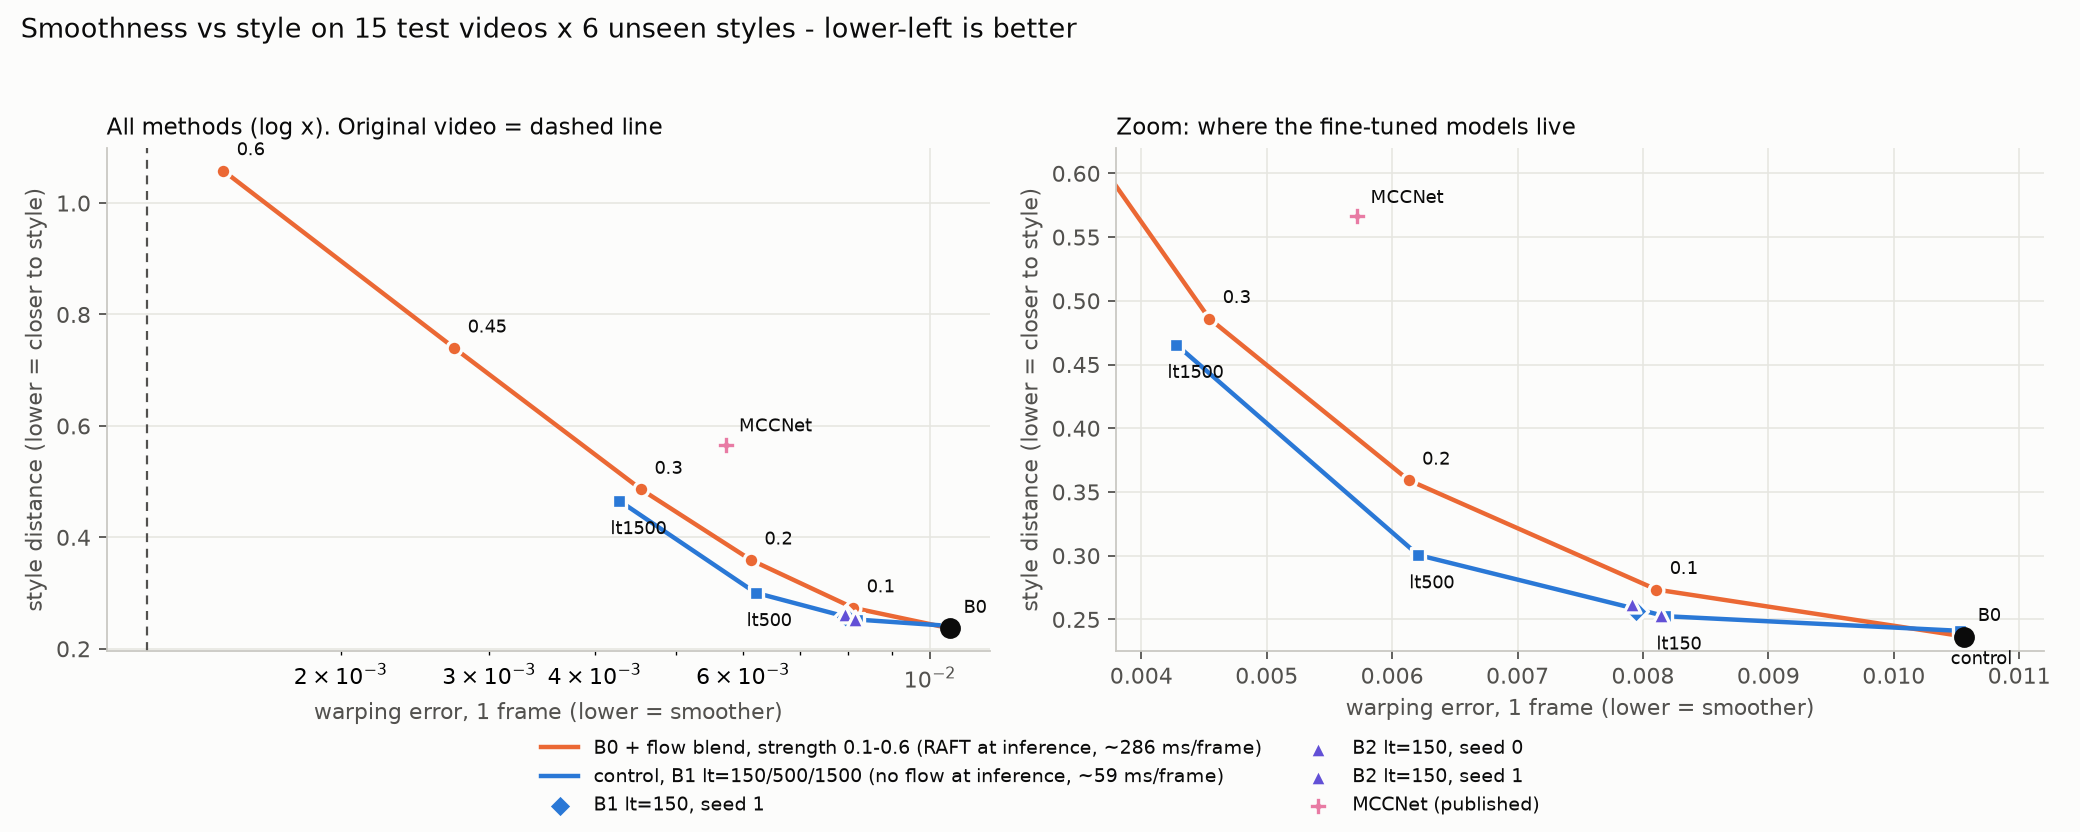
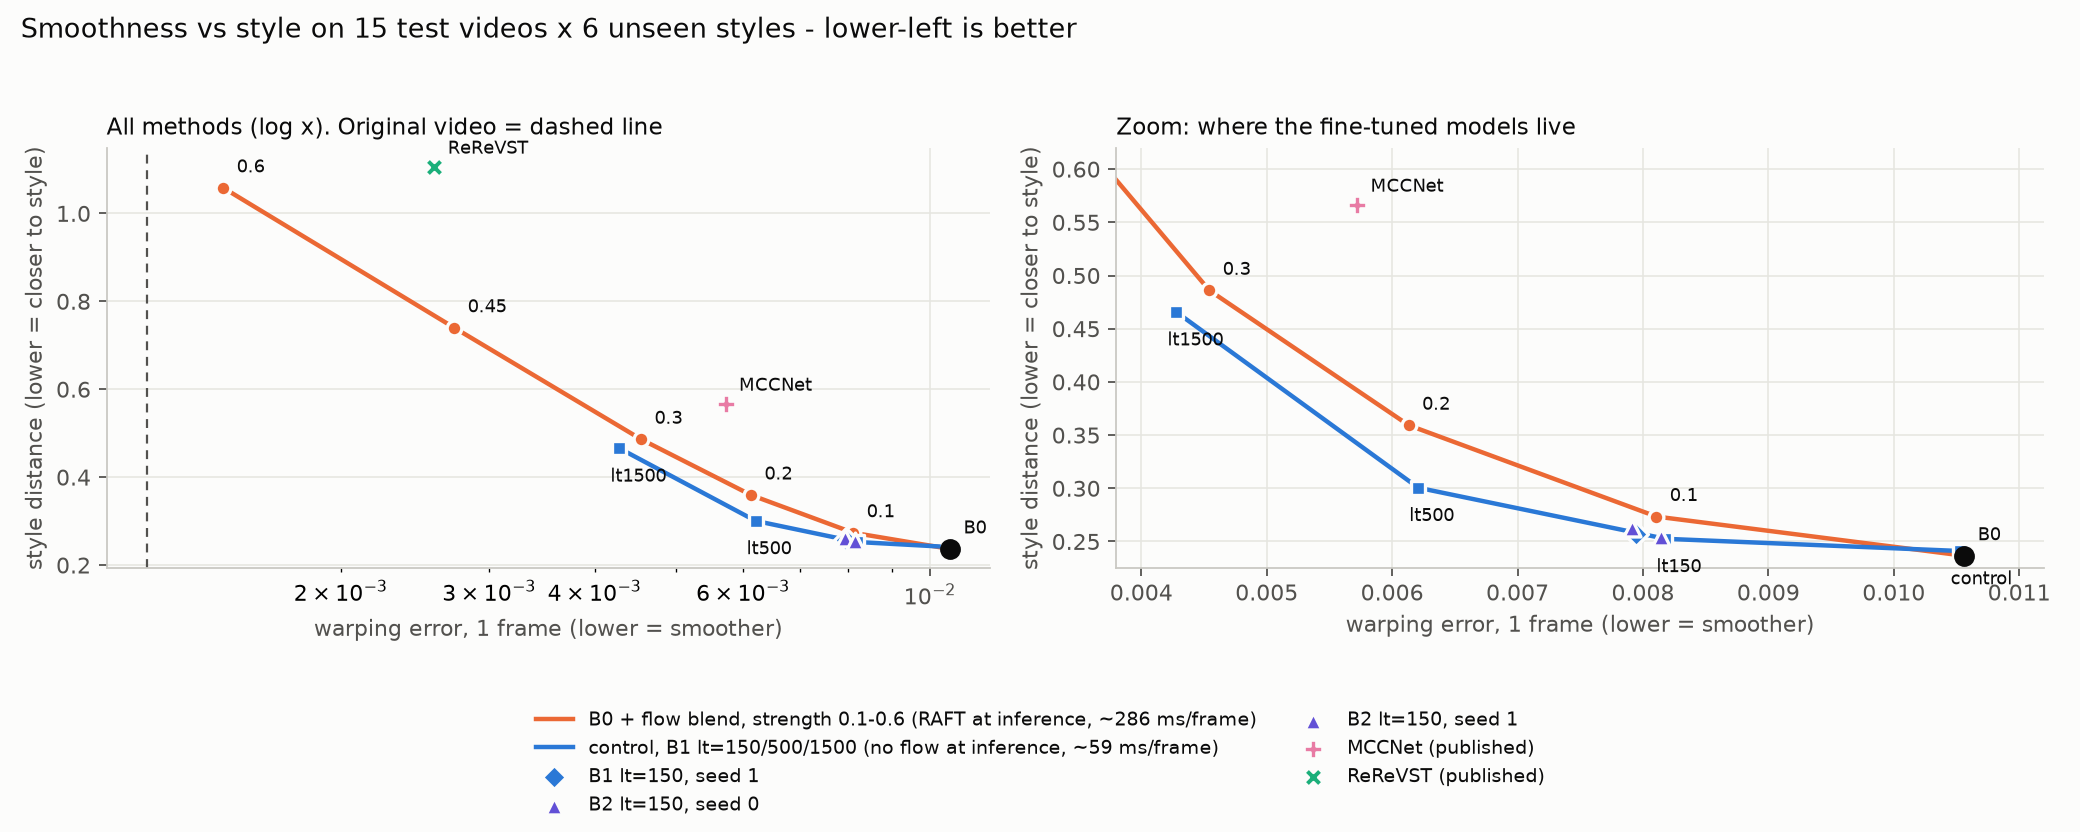
Add published-model (ReReVST, MCCNet) and old per-style model results, timing, docs
- RESULTS.md sections 6-8: published models in our pipeline with paired comparisons, the earlier project's
  per-style checkpoints, idle-GPU timing. Negative/unfavourable results (ReReVST smoother; old Cuphead model steadier) stated.
- LITERATURE.md update (ReReVST supplement read, MCCNet released script cannot run), PROTOCOL.md addendum.
- Report script now includes published models and old-model table; chart legend fixed.

diff --git a/src/make_report.py b/src/make_report.py
@@ -78,9 +78,9 @@ ax1.axvline(ref["warp_mse_k1"], color=MUT, lw=1, ls=(0, (4, 3)))
 draw(ax2, True); ax2.set_xlim(0.0038, 0.0112); ax2.set_ylim(0.225, 0.62); ax2.set_title("Zoom: where the fine-tuned models live", color=INK, fontsize=10.5, loc="left")
 h, l = ax1.get_legend_handles_labels(); seen = {}
 for hh, ll in zip(h, l): seen.setdefault(ll, hh)
-fig.legend(seen.values(), seen.keys(), loc="lower center", ncol=2, frameon=False, fontsize=8.5, labelcolor=INK)
+fig.legend(seen.values(), seen.keys(), loc="lower center", ncol=2, bbox_to_anchor=(0.5, 0.0), frameon=False, fontsize=8.5, labelcolor=INK)
 fig.suptitle("Smoothness vs style on 15 test videos x 6 unseen styles - lower-left is better", color=INK, fontsize=12, x=0.01, ha="left")
-fig.tight_layout(rect=(0, 0.1, 1, 0.95)); fig.savefig(R / "tradeoff_test.png", dpi=160, facecolor=BG); print("saved chart")
+fig.tight_layout(rect=(0, 0.2, 1, 0.95)); fig.savefig(R / "tradeoff_test.png", dpi=160, facecolor=BG); print("saved chart")
 
 
 # ---- old project's per-style models (own style) + our methods on the SAME three styles

diff --git a/RESULTS.md b/RESULTS.md
@@ -33,8 +33,60 @@ Flow cost as implemented = 227 ms/frame (2 RAFT-Large passes + mask), so flow bl
 5. **B2 (our attention module) shows no benefit over B1**: 3% better with seed 0, 2.5% worse with seed 1 on both val and test; its gate stays ~0.007.
 
 ## What it does NOT show
-* Not compared with ReReVST/MCCNet/CCPL in our pipeline (no published-method baseline yet). Published numbers use other protocols and are not comparable (see LITERATURE.md).
+* Compared with ReReVST and MCCNet in our pipeline (section 6) but NOT with CCPL / AdaAttN / others. Numbers quoted in those papers use other protocols and are not comparable (see LITERATURE.md).
 * Style/content metrics are proxies tied to AdaIN's own VGG; the warp error can be lowered by blur/ghosting (blend 0.6 shows this). No human ratings collected yet (HUMAN_STUDY.md).
 * One base model, one training recipe, 2 seeds for lt=150 only, 6 styles per evaluation, DAVIS only.
 * Fine-tuning DAVIS-only decoder slightly worsens style vs B0 (control +1.9% style distance, CI above 0).
 * Round-1 selection rule was changed after seeing validation results (PROTOCOL.md, Amendment 1); the extra seed runs and extra blend strengths were also added after seeing results. All are logged.
+
+---
+# 6. Published models run through OUR pipeline (same 15 test videos x 6 unseen styles, same flow/masks/metrics)
+Models: ReReVST (Wang et al., TIP 2020; official code + final weights, inference mirrors the authors' own script incl. global feature sharing) and
+MCCNet (Deng et al., AAAI 2021; official decoder/module weights; VGG file byte-identical to ours; the authors' `test_video.py` cannot run as released, so we
+reimplemented its inference core: relu4_1 -> MCC module -> decoder, frame by frame). Default settings, no tuning. Style image given at 256x256 like for all methods.
+
+| method | warp err 1fr [95% CI] | warp err 5fr | content LPIPS | style dist | ms/frame | peak GPU |
+|---|---|---|---|---|---|---|
+| B1 lt=500 (ours) | 0.00621 [0.00497, 0.00762] | 0.01169 | 0.5473 | 0.3006 | 59 | <1 GB |
+| B1 lt=1500 (ours) | 0.00428 [0.00332, 0.00545] | 0.00875 | 0.5422 | 0.4656 | 59 | <1 GB |
+| B0 + flow blend 0.45 | 0.00273 [0.00223, 0.00329] | 0.01053 | 0.5506 | 0.7397 | 286 | - |
+| MCCNet (published) | 0.00572 [0.00443, 0.00716] | 0.01094 | 0.5327 | 0.5663 | 61 | 0.5 GB |
+| ReReVST (published) | 0.00258 [0.00186, 0.00352] | 0.00672 | 0.5289 | 1.1056 | 171 | 5.5 GB |
+
+Paired over the 15 test videos (bootstrap 95% CI of the relative difference):
+* **B1 lt=1500 vs MCCNet:** warp 1fr -25% [-33, -18] (lower on 13/15 videos), 5fr -20%, style distance -18% [-23, -13] (14/15), content LPIPS +1.8% [-0.2, +3.8] (not distinguishable). By these metrics B1 lt=1500 is both smoother and closer to the style than MCCNet.
+* **B1 lt=500 vs MCCNet:** warp +8.5% (MCCNet smoother on 13/15), style distance -47% (B1 closer on 15/15).
+* **ReReVST vs MCCNet:** warp -55% (smoother on 15/15), style distance +95% (worse on 15/15).
+* **ReReVST vs flow blend 0.45:** about equal 1-frame warp (-5% [-18, +13]), but much smoother over 5 frames (-36% [-41, -32], 15/15), better content LPIPS (-4%), and a higher style distance (+50%).
+
+What this means, honestly:
+1. **ReReVST is the smoothest learned method we tested, especially over longer gaps (5 frames: 0.0067 vs our best 0.0088).** Our B1 does NOT beat it on smoothness.
+2. **ReReVST pays for it in style distance (1.11 vs 0.24-0.47 for ours).** Caution: our style metric uses AdaIN's own VGG mean/std statistics, and ReReVST deliberately uses a *relaxed* style loss (its supplement), so this metric is expected to disfavour it. We cannot say from the metric alone which looks better; that needs the human study.
+3. **Our B1 family sits better than MCCNet in the smoothness/style trade-off** (see `results/tradeoff_test.png`); MCCNet is about as fast as ours (61 vs 59 ms/frame), ReReVST is ~3x slower (171 ms) and needs 5.5 GB.
+4. Not claimed: that B1 is better than ReReVST. Not tested: CCPL, AdaAttN, other published models.
+
+# 7. The earlier project's per-style TransformerNet models (your friends' checkpoints), our metrics, our test videos
+Normalisation handled as in the old `run_temporal.py` (ImageNet-normalised in/out); frames reflect-padded to a multiple of 4. The old fine-tuning used the same 60 DAVIS training videos; our 15 test videos come from the old validation set, so they were never seen. Each model is evaluated only on its own style image; style distances are only comparable within one style, and the per-style models were trained with a different (VGG16 Gram) objective than the AdaIN-VGG distance used here, so their style distances are not a fair comparison. Full table: `results/table_old_models.md`.
+
+| style | method | warp err 1fr | warp err 5fr | content LPIPS | style dist |
+|---|---|---|---|---|---|
+| cuphead | old original (10000 it) | 0.01045 | 0.02112 | 0.6006 | 2.069 |
+| cuphead | old "temporal_best" | 0.00940 | 0.01909 | 0.5921 | 2.749 |
+| cuphead | old temporal_m2 / m3 / m2_e5 | 0.0166 / 0.0166 / 0.0164 | 0.0276 / 0.0276 / 0.0278 | 0.639 / 0.639 / 0.646 | 1.16 / 1.16 / 1.66 |
+| cuphead | old m2 + flow blend 0.35 (our mask) | 0.00619 | 0.01853 | 0.6207 | 1.521 |
+| cuphead | our B0 / B1 lt150 / B1 lt500 | 0.0293 / 0.0228 / 0.0175 | 0.0450 / 0.0375 / 0.0308 | 0.611 / 0.608 / 0.608 | 0.73 / 0.77 / 0.85 |
+| mosaic | old original | 0.02371 | 0.03593 | 0.6385 | 1.020 |
+| mosaic | our B0 / B1 lt150 / B1 lt500 | 0.0313 / 0.0259 / 0.0194 | 0.0435 / 0.0381 / 0.0303 | 0.622 / 0.623 / 0.631 | 0.65 / 0.75 / 1.07 |
+| starry night | old original | 0.03696 | 0.04523 | 1.0250 | 3.564 |
+| starry night | our B0 / B1 lt150 / B1 lt500 | 0.0198 / 0.0160 / 0.0126 | 0.0285 / 0.0243 / 0.0201 | 0.672 / 0.649 / 0.664 | 0.54 / 0.66 / 0.72 |
+(Original video floor: 0.00118 / 0.00361.)
+
+What this shows:
+* **Only one of the old project's "temporal" fine-tunes made the model steadier.** `temporal_best`: warp error -10% vs the old original on Cuphead (paired 95% CI -12.8..-7.7%, lower on 15/15 videos), content LPIPS -1.4%. `m2`, `m2_e5`, `m3` are clearly WORSE: warp error +57..+59% (CI +47..+70%, worse on 15/15), content LPIPS +6..+7.5%, and they visibly changed the look (heavier crackle texture). `m2` and `m3` are different files but practically the same model (per-video warp error differs by <= 1.3e-5).
+  Likely reason (from their training logs, not tested): the content/style losses were ~10^6 while the temporal term was ~0.06, i.e. the temporal term was numerically negligible, so those runs mostly drifted the style.
+* **Per-style models are not uniformly steadier or flickerier than AdaIN:** Cuphead: the old model is much steadier than our AdaIN-based methods (0.010 vs 0.029 / 0.0175 at lt=500); Mosaic: our B1 lt=500 (0.0194) is steadier than the old model (0.0237), B0 is not (0.0313); Starry Night: our methods are steadier (0.013-0.020 vs 0.037).
+* What per-style models cannot do: they need one trained network per style; ours takes any style image. The numbers do not measure that.
+* Caveat for the starry-night LPIPS (1.02): the model changes the image strongly (checked visually: correct, strong Van-Gogh look; `results/old_models_preview_camel.jpg`); LPIPS to the content frame is not comparable across styles.
+
+# 8. Speed (RTX 4060 laptop GPU, 480p, median of 5 repeats after warm-up, frames start on CPU)
+Old per-style TransformerNet 27 ms/frame; ours (AdaIN decoder, B0/control/B1) 59; B2 64; MCCNet 61; ReReVST 171 (peak 5.5 GB); flow blending 286 (flow+mask = 227 ms). Scripts: `src/time_methods.py`, `src/time_external.py`.

diff --git a/LITERATURE.md b/LITERATURE.md
@@ -54,3 +54,10 @@ Pretrained model and code: https://github.com/daooshee/ReReVST-Code (GPL-3.0); w
 
 ## 4. Architectural idea we tried
 LocalAttnFusion (flow-free 7x7 local cross-frame attention + gate, 0.23M params): validation and test showed **no reproducible gain** over B1 (seed-to-seed sign flip, gate shrank to ~0.007). Reported as a negative/neutral result. Prior art already covers attention for style (AdaAttN) and flow-free video consistency (MCCNet, CCPL, ReReVST), so novelty claims should be modest.
+
+---
+## 5. Update after running published models in our pipeline (2026-11-17)
+* **ReReVST**: its paper is still not readable (IEEE), but the authors' *supplementary PDF* (from their Drive folder) confirms: trained on MS-COCO content + WikiArt styles with VGG-19 encoders; loss weights content 1, style 20, colour reconstruction 20, TV 10, temporal 60; Adam 1e-4, batch 4; relaxed style loss introduced in the second stage and temporal regularisation in the last epoch; benchmarking used 20 style images and the other methods' released code with default parameters; "temporal stability improves steadily with the increase of regularization strength" while content reconstruction degrades (the same trade-off we measure for B1). Metric definitions and the main tables remain unverified by me.
+* **Run through OUR protocol** (15 DAVIS test videos x 6 unseen styles): ReReVST warp error 0.00258 (5-frame 0.00672), content LPIPS 0.529, style distance 1.106, 171 ms/frame; MCCNet 0.00572 (0.01094), 0.533, 0.566, 61 ms/frame. See RESULTS.md section 6 for paired comparisons and caveats. ReReVST is smoother than anything we trained, with a much higher style distance on a metric that is tied to AdaIN's statistics.
+* **MCCNet's released `test_video.py` does not run** (calls `torch.uint8(...)` and `cv2.cvColor`, and its frame-processing branch `if j % 1 == False` never executes); we reimplemented its inference core. Its decoder/module weights are in the repo; its VGG file is byte-identical to the AdaIN VGG we use (sha256 checked).
+* Still unread: CCPL's supplementary material, AdaAttN, Ruder/Huang/Chen/Lai/ReCoNet experiment sections.

diff --git a/PROTOCOL.md b/PROTOCOL.md
@@ -93,3 +93,9 @@ The B2-B1 difference flips sign between seeds (-2.8% / +2.8%) -> it is seed nois
 Conclusion fixed before the test run: B2 (LocalAttnFusion) is NOT shown to improve on B1; its gate stays ~0.007-0.008. Report it as a negative/neutral result.
 
 ## FINAL test evaluation (run once): B0, B0+blend0.3/0.6, control, B1 lt150 (seeds 0,1), B1 lt500, B1 lt1500, B2 lt150 (seeds 0,1), with --timing. Script: run_test.sh.
+
+---
+## Addendum (2026-11-17, after the main test run; none of this changes any earlier number)
+* Extra comparison runs on the SAME test split, added after seeing the main results and disclosed as such: published ReReVST and MCCNet (default settings, no tuning, `src/eval_external.py`), the earlier project's per-style TransformerNet checkpoints (`src/eval_old_models.py`, each on its own style) with our methods on those same three showcase styles, and extra flow-blend strengths 0.1/0.2/0.45.
+* The three showcase styles (cuphead, mosaic, starry night) were used here for evaluation of the old per-style models only; no selection or tuning was based on them.
+* Speed was re-measured on an idle GPU (`src/time_methods.py`, `src/time_external.py`); the timings printed in the first test run were discarded (overnight sleep + one helper bug, found and fixed).

diff --git a/results/table_old_models.md b/results/table_old_models.md
@@ -15,5 +15,13 @@
 | mosaic | B0 | 0.03126 [0.02680, 0.03564] | 0.04347 | 0.6220 | 0.6529 |
 | mosaic | control | 0.03393 [0.02928, 0.03835] | 0.04639 | 0.6248 | 0.7390 |
 | mosaic | B1_lt150 | 0.02588 [0.02222, 0.02964] | 0.03808 | 0.6231 | 0.7537 |
+| mosaic | B1_lt500 | 0.01939 [0.01656, 0.02234] | 0.03033 | 0.6309 | 1.0652 |
+| mosaic | B0+blend0.3 | 0.01309 [0.01127, 0.01500] | 0.02876 | 0.6041 | 1.9355 |
+| starry_night | OLD:starry_night_10000 | 0.03696 [0.03155, 0.04155] | 0.04523 | 1.0250 | 3.5644 |
+| starry_night | B0 | 0.01975 [0.01673, 0.02275] | 0.02845 | 0.6721 | 0.5357 |
+| starry_night | control | 0.01942 [0.01646, 0.02240] | 0.02826 | 0.6506 | 0.5658 |
+| starry_night | B1_lt150 | 0.01600 [0.01350, 0.01856] | 0.02428 | 0.6493 | 0.6568 |
+| starry_night | B1_lt500 | 0.01257 [0.01059, 0.01466] | 0.02007 | 0.6643 | 0.7199 |
+| starry_night | B0+blend0.3 | 0.00833 [0.00709, 0.00960] | 0.01921 | 0.6347 | 0.9830 |
 
 Original video floor: warp err 1fr 0.00118, 5fr 0.00361. Style distance is only comparable WITHIN one style (rows with the same style).

diff --git a/README.md b/README.md
@@ -7,7 +7,7 @@ per-style models of the earlier project, and (in our pipeline) the released ReRe
 **Start here:** [`RESULTS.md`](RESULTS.md) (final test numbers and what they do / do not show), [`PROTOCOL.md`](PROTOCOL.md) (rules fixed before the
 experiments + every later amendment), [`LITERATURE.md`](LITERATURE.md) (related work, with verification status per paper), [`HUMAN_STUDY.md`](HUMAN_STUDY.md).
 
-Status is tracked honestly in those files; results still being produced are marked as such.
+Status is tracked honestly in those files. The repository is updated automatically while work is in progress.
 
 ## Layout
 - `src/` code: `adain.py`, `flowutil.py` (RAFT, warping, occlusion masks), `metrics.py`, `evaluate.py`, `train.py`, `temporal_module.py` (B2), `external_methods.py` / `eval_external.py` (published models in our pipeline), `eval_old_models.py`, `make_report.py`

diff --git a/results/table_test.md b/results/table_test.md
@@ -14,4 +14,5 @@
 | B1 lt=1500 | 0.00428 [0.00332, 0.00545] | 0.00875 | 0.5422 | 0.4656 | 0.00011 | 59 | no |
 | B2 lt=150 (seed 0) | 0.00791 [0.00640, 0.00960] | 0.01401 | 0.5535 | 0.2624 | 0.00004 | 64 | no |
 | B2 lt=150 (seed 1) | 0.00814 [0.00662, 0.00985] | 0.01441 | 0.5522 | 0.2538 | 0.00004 | 64 | no |
-| MCCNet (published, AAAI 2021) | 0.00572 [0.00443, 0.00716] | 0.01094 | 0.5327 | 0.5663 | 0.00013 | n/a | no |
+| MCCNet (published, AAAI 2021) | 0.00572 [0.00443, 0.00716] | 0.01094 | 0.5327 | 0.5663 | 0.00013 | 61 | no |
+| ReReVST (published, TIP 2020) | 0.00258 [0.00186, 0.00352] | 0.00672 | 0.5289 | 1.1056 | 0.00021 | 171 | no |
